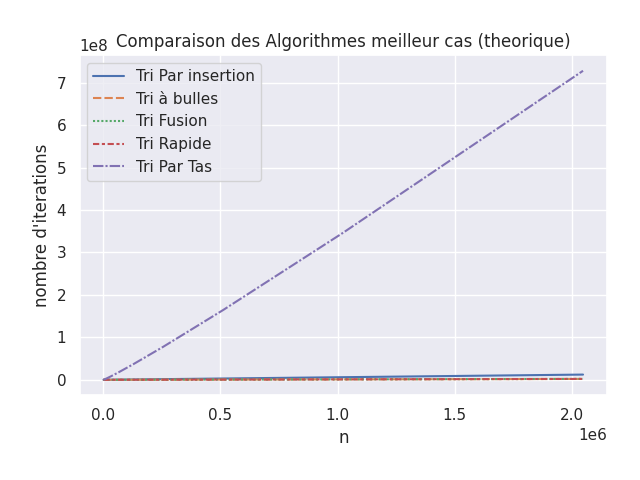
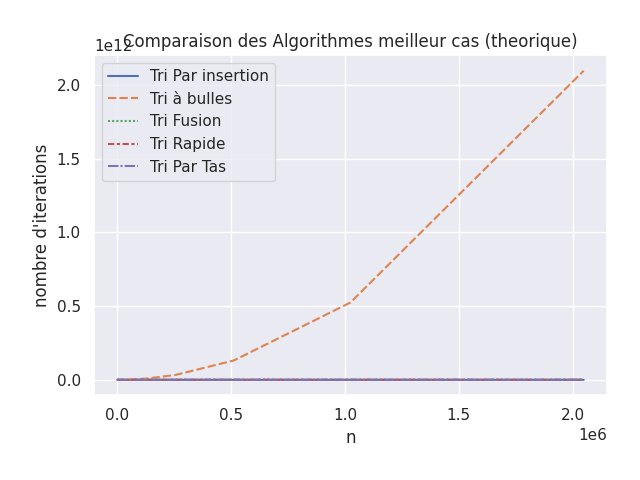
graphs.py update

diff --git a/results/graphs.py b/results/graphs.py
@@ -24,18 +24,18 @@ sorting_names = {
 
 best_cases = {
     "insertion": lambda x: (6 * x) - 6,
-    "bubbles": lambda x: x,
-    "merge": lambda x: x,
-    "quick": lambda x: x,
-    "heap": lambda x: x * (17 * math.log2(x) - 1),
+    "bubbles": lambda x: (x*x + x - 2) / 2,
+    "merge": lambda x: x * (math.log2(x + 1) - 1),
+    "quick": lambda x: x + math.log2(x) * x,
+    "heap": lambda x: x * (math.log2(x) - 1),
 }
 
 worst_cases = {
     "insertion": lambda x: (x * (x - 1)) / 2,
-    "bubbles": lambda x: x,
-    "merge": lambda x: x,
-    "quick": lambda x: x,
-    "heap": lambda x: (3 * x * (17 * math.log2(x) - 1)) / 2,
+    "bubbles": lambda x: (x*x + x - 2) / 2,
+    "merge": lambda x: 2 * (x/2) * (math.log2((x/2) + 1) - 1) + 2 * x,
+    "quick": lambda x: (x * (x+1)) / 2,
+    "heap": lambda x: (3 * x * (math.log2(x) - 1)) / 2,
 }
 
 
